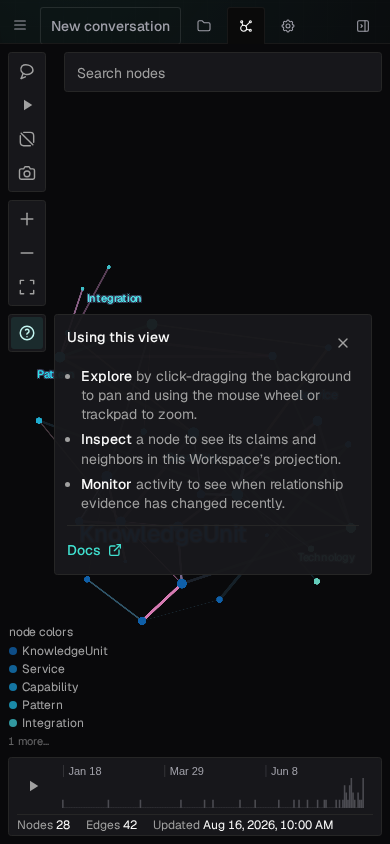
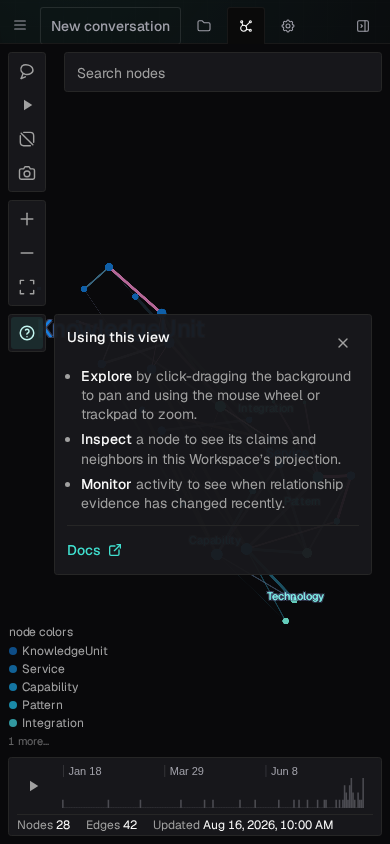
Show the graph screenshot stories at fixed positions (CTX-1405)
The play of WorkspacePane.Graph waited for the reduced-motion layout of
the knowledge graph: 300 steps, each with a fixed GPU cost. In the
screenshot container, WebGL runs on the CPU, so the layout took about
19 s on a CI runner and more than 30 s on a loaded one. Then the play did
not find "Play layout" in its 30 s.

A story can now give the canvas fixed positions for the points, through
FixedGraphLayoutContext. Then Cosmograph places each point at its
position (pointXBy, pointYBy), runs no simulation, and the graph shows
when it is built. Only stories give the context, so the product does not
change. WorkspacePane.Graph and WorkspaceSurface.GraphPane use the
positions of the end of the 300-step layout of docsWorkspaceGraph.

The three baselines of the two stories change: WorkspacePane.Graph only
by 0.11%, and WorkspaceSurface.GraphPane now shows the same layout.

diff --git a/apps/ui/src/features/knowledge-graph/KnowledgeGraphCosmographCanvas.tsx b/apps/ui/src/features/knowledge-graph/KnowledgeGraphCosmographCanvas.tsx
@@ -16,6 +16,7 @@ import {
   forwardRef,
   type ReactNode,
   useCallback,
+  useContext,
   useEffect,
   useImperativeHandle,
   useMemo,
@@ -26,6 +27,7 @@ import {
 import { Button } from "@/components/ui/Button"
 import { cn } from "@/lib/utils"
 
+import { FixedGraphLayoutContext } from "./fixedGraphLayout"
 import { GraphWaitState } from "./GraphWaitState"
 import { buildFocusFitTarget } from "./knowledgeGraphFocusFit"
 import {
@@ -152,6 +154,7 @@ export const KnowledgeGraphCosmographCanvas = forwardRef<
   ref,
 ) {
   const cosmographRef = useRef<CosmographRef>(undefined)
+  const fixedLayout = useContext(FixedGraphLayoutContext)
   const hostRef = useRef<HTMLDivElement>(null)
   const timelineRef = useRef<CosmographTimelineRef>(undefined)
   const [config, setConfig] = useState<CosmographConfig | null>(null)
@@ -505,6 +508,11 @@ export const KnowledgeGraphCosmographCanvas = forwardRef<
 
     async function load() {
       const hasEdges = links.length > 0
+      // A fixed layout applies only when it has a position for each point.
+      const fixed =
+        fixedLayout && points.every(({ id }) => fixedLayout[id])
+          ? fixedLayout
+          : null
 
       const prepConfig = {
         points: {
@@ -515,6 +523,7 @@ export const KnowledgeGraphCosmographCanvas = forwardRef<
           pointSizeBy: "degree",
           pointClusterBy: "kind",
           pointIncludeColumns: ["id", "label", "kind", "summary", "degree"],
+          ...(fixed && { pointXBy: "x", pointYBy: "y" }),
         },
         ...(hasEdges
           ? {
@@ -538,7 +547,12 @@ export const KnowledgeGraphCosmographCanvas = forwardRef<
       try {
         result = await prepareCosmographData(
           prepConfig,
-          points,
+          fixed
+            ? points.map((point) => {
+                const [x, y] = fixed[point.id]
+                return { ...point, x, y }
+              })
+            : points,
           hasEdges ? links : undefined,
         )
       } catch (err) {
@@ -603,6 +617,7 @@ export const KnowledgeGraphCosmographCanvas = forwardRef<
         // steps does not depend on time, so the layout is the same on each
         // device.
         ...(reduceMotion && { simulationDecay: 300 }),
+        ...(fixed && { enableSimulation: false }),
         pointDefaultColor: KIND_FALLBACK_COLOR,
         pointDefaultSize: 7,
         pointSizeRange: isLargeGraph ? [1, 22] : [4, 12],
@@ -657,6 +672,12 @@ export const KnowledgeGraphCosmographCanvas = forwardRef<
           if (reduceMotion) fitAndRevealOnce()
         },
         onGraphRebuilt: () => {
+          // A fixed layout has no simulation, so the graph shows when it is
+          // built.
+          if (fixed) {
+            fitAndRevealOnce()
+            return
+          }
           if (reduceMotion) return
           if (fitFallbackTimer) clearTimeout(fitFallbackTimer)
           fitFallbackTimer = setTimeout(
@@ -700,6 +721,7 @@ export const KnowledgeGraphCosmographCanvas = forwardRef<
   }, [
     points,
     links,
+    fixedLayout,
     handleCanvasPointIndex,
     emitLassoSelection,
     handlePolygonSelected,

diff --git a/apps/ui/src/features/workspaces/WorkspaceSurface.stories.tsx b/apps/ui/src/features/workspaces/WorkspaceSurface.stories.tsx
@@ -7,6 +7,7 @@ import { expect, userEvent, waitFor, within } from "storybook/test"
 
 import { responseGate } from "@/components/ui/skeletonMatchStory"
 import { chatDraftKey, writeChatDraft } from "@/features/chat/chat-draft"
+import { FixedGraphLayoutContext } from "@/features/knowledge-graph/fixedGraphLayout"
 import { signedInHandlers } from "@/mocks/handlers"
 import {
   conversationDetailLoadingHandler,
@@ -40,6 +41,7 @@ import {
   docsWorkspace,
   docsWorkspaceDetail,
   docsWorkspaceGitTree,
+  docsWorkspaceGraphLayout,
   failedHydrateWorkspace,
   failedHydrateWorkspaceDetail,
   hydratingWorkspaceDetail,
@@ -1664,10 +1666,15 @@ export const FilesPane: Story = {
  * Graph pane is open and shows the knowledge graph.
  */
 export const GraphPane: Story = {
-  // With reduced motion the layout runs a fixed number of steps before the
-  // graph shows. The play waits for it: without the wait, the screenshot
-  // showed a loading stage of the graph that depended on the host speed.
-  tags: ["reduced-motion"],
+  // The graph shows at fixed positions and runs no layout. A layout in the
+  // screenshot container runs on a CPU renderer and took up to 30 s.
+  decorators: [
+    (Story) => (
+      <FixedGraphLayoutContext.Provider value={docsWorkspaceGraphLayout}>
+        <Story />
+      </FixedGraphLayoutContext.Provider>
+    ),
+  ],
   args: { paneParam: "graph" },
   parameters: {
     storyRoute: workspaceRoute({ pane: "graph" }),
@@ -1679,12 +1686,13 @@ export const GraphPane: Story = {
   },
   play: async ({ canvasElement }) => {
     const page = within(canvasElement.ownerDocument.body)
-    // The graph shows when its layout has stopped. Then the control to
-    // play the layout again shows.
+    // The controls of the graph show when the graph shows. Without this
+    // wait, the screenshot showed a loading stage of the graph.
     await page.findByRole(
       "button",
       { name: "Play layout" },
-      // The layout runs in WebGL, which is slow on a CPU renderer.
+      // Before the graph shows, its data loads into DuckDB (WebAssembly),
+      // which takes some seconds on a slow host.
       { timeout: 30_000 },
     )
   },

diff --git a/apps/ui/src/features/workspaces/WorkspacePane.stories.tsx b/apps/ui/src/features/workspaces/WorkspacePane.stories.tsx
@@ -6,6 +6,7 @@ import { type ComponentProps, useState } from "react"
 import { expect, fn, userEvent, waitFor, within } from "storybook/test"
 
 import { Button } from "@/components/ui/Button"
+import { FixedGraphLayoutContext } from "@/features/knowledge-graph/fixedGraphLayout"
 import { signedInHandlers } from "@/mocks/handlers"
 import {
   conversationFilePutHandler,
@@ -53,6 +54,7 @@ import {
   docsWorkspaceGitBlobs,
   docsWorkspaceGitTree,
   docsWorkspaceGraph,
+  docsWorkspaceGraphLayout,
   readOnlyWorkspaceDetail,
   skippedFilesWorkspaceDetail,
 } from "./workspace-fixtures"
@@ -931,10 +933,15 @@ export const TreeCollapsed: Story = {
  * with a Play layout control.
  */
 export const Graph: Story = {
-  // With reduced motion the layout runs a fixed number of steps before the
-  // graph shows. With motion, a timer stops it, so the layout differed
-  // between hosts.
-  tags: ["reduced-motion"],
+  // The graph shows at fixed positions and runs no layout. A layout in the
+  // screenshot container runs on a CPU renderer and took up to 30 s.
+  decorators: [
+    (Story) => (
+      <FixedGraphLayoutContext.Provider value={docsWorkspaceGraphLayout}>
+        <Story />
+      </FixedGraphLayoutContext.Provider>
+    ),
+  ],
   args: { pane: { kind: "graph" } },
   parameters: {
     storyRoute: {
@@ -951,12 +958,12 @@ export const Graph: Story = {
   },
   play: async ({ canvasElement }) => {
     const canvas = within(canvasElement)
-    // The graph shows when its layout has stopped. Then the control to
-    // play the layout again shows.
+    // The controls of the graph show when the graph shows.
     await canvas.findByRole(
       "button",
       { name: "Play layout" },
-      // The layout runs in WebGL, which is slow on a CPU renderer.
+      // Before the graph shows, its data loads into DuckDB (WebAssembly),
+      // which takes some seconds on a slow host.
       { timeout: 30_000 },
     )
   },

diff --git a/apps/ui/src/features/workspaces/workspace-fixtures.ts b/apps/ui/src/features/workspaces/workspace-fixtures.ts
@@ -1489,6 +1489,44 @@ export const docsWorkspaceGraph: WorkspaceGraphPayload = {
   ],
 }
 
+/**
+ * The positions of the points of `docsWorkspaceGraph` at the end of its
+ * reduced-motion layout. The screenshot stories show the graph at these
+ * positions and run no layout.
+ */
+export const docsWorkspaceGraphLayout: Readonly<
+  Record<string, readonly [number, number]>
+> = {
+  "knowledge/billing/ledger.md": [2011.9, 2017.6],
+  "knowledge/billing/invoices.md": [2004.1, 2024.5],
+  "knowledge/billing/tax.md": [2000.4, 2021.2],
+  "knowledge/auth/session.md": [2013, 2013.3],
+  "knowledge/auth/members.md": [2003, 2010.1],
+  "knowledge/auth/sso.md": [2014.9, 1989.3],
+  "knowledge/search/index.md": [2009, 2003.3],
+  "knowledge/search/query.md": [2020.1, 1981.8],
+  "knowledge/search/ranking.md": [2025.4, 1991.2],
+  "knowledge/connectors/github.md": [2020.6, 2003.8],
+  "knowledge/connectors/notion.md": [2028.5, 2004.5],
+  "knowledge/connectors/linear.md": [2033.1, 2004.4],
+  "knowledge/chat/composer.md": [2008, 2020.1],
+  "knowledge/chat/sandbox.md": [2024.9, 2001.8],
+  "knowledge/chat/tools.md": [2011.9, 2000.2],
+  "knowledge/hydrate/projection.md": [2024.5, 1982.6],
+  "knowledge/hydrate/claims.md": [2010.4, 2009.3],
+  "knowledge/hydrate/git.md": [2035.1, 1993.3],
+  "knowledge/settings/workspace.md": [2004.8, 2014.6],
+  "knowledge/settings/slug.md": [1999.4, 2016.4],
+  "knowledge/scratch/orphan.md": [1993.7, 2021.3],
+  "knowledge/platform/api.md": [2029.3, 1995.3],
+  "knowledge/platform/worker.md": [2040, 1993.5],
+  "knowledge/platform/postgres.md": [2033.5, 1982],
+  "knowledge/platform/falkordb.md": [2031.6, 1975],
+  "knowledge/platform/embeddings.md": [2030.3, 1971.9],
+  "knowledge/platform/codesearch.md": [2028, 1998.9],
+  "knowledge/ops/jobs.md": [2037.9, 1986.7],
+}
+
 export const eligibleGithubRepos = [
   {
     id: 1,

diff --git a/apps/ui/src/features/knowledge-graph/fixedGraphLayout.ts b/apps/ui/src/features/knowledge-graph/fixedGraphLayout.ts
@@ -1,0 +1,12 @@
+import { createContext } from "react"
+
+/**
+ * Fixed positions of the graph points, by point id, in the coordinates of
+ * the Cosmograph space. When each point has a position, the canvas shows the
+ * graph at these positions and runs no layout. Only stories give it: a
+ * screenshot then does not wait for a layout that the CPU renderer of the
+ * screenshot container computes slowly.
+ */
+export const FixedGraphLayoutContext = createContext<Readonly<
+  Record<string, readonly [number, number]>
+> | null>(null)

diff --git a/.changeset/graph-stories-fixed-layout.md b/.changeset/graph-stories-fixed-layout.md
@@ -1,0 +1,4 @@
+---
+---
+
+The graph screenshot stories show the knowledge graph at fixed positions and run no layout, so their play does not depend on the speed of the CPU renderer (CTX-1405).
